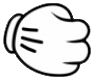
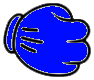
Added Better Images for rock,paper and scissior. Need to do the same for the cpu now.  Added Some Backup Pictures.

diff --git a/MainWindow.xaml b/MainWindow.xaml
@@ -15,7 +15,7 @@
       <Ellipse x:Name="Player1_circle" Fill="#FFFF0023" HorizontalAlignment="Left" Height="114.674" Margin="125.326,136.326,0,0" Stroke="Black" VerticalAlignment="Top" Width="114.674" RenderTransformOrigin="0.419,0.051" Stretch="Uniform"/>
       <Ellipse x:Name="CPU_Option" Fill="#FFF4F4F5" HorizontalAlignment="Left" Height="100" Margin="500,151,0,0" Stroke="Black" VerticalAlignment="Top" Width="100" RenderTransformOrigin="0.419,0.051" Visibility="Hidden"/>
 
-      <Image x:Name="Player1_Option_Chosen" Height="75.543" Margin="240,99.152,282,0" VerticalAlignment="Top" OpacityMask="#FF1700FF" d:LayoutOverrides="VerticalAlignment"/>
+      <Image x:Name="Player1_Option_Chosen" Height="75.543" Margin="147,159,0,0" VerticalAlignment="Top" OpacityMask="#FF1700FF" HorizontalAlignment="Left" Width="78"/>
       <Image x:Name="Player2_Option_Chosen" HorizontalAlignment="Left" Height="100" Margin="500,151,0,0" VerticalAlignment="Top" Width="100" OpacityMask="#FF0017FF"/>
       <Label Content="Player1" HorizontalContentAlignment="Center" VerticalContentAlignment="Center" HorizontalAlignment="Left" Height="36" Margin="140,256,0,0" VerticalAlignment="Top" Width="85" FontSize="20" RenderTransformOrigin="0.715,0.722"/>
       <Label Content="CPU" HorizontalContentAlignment="Center" VerticalContentAlignment="Center" HorizontalAlignment="Left" Height="36" Margin="507,256,0,0" VerticalAlignment="Top" Width="85" FontSize="20" RenderTransformOrigin="0.715,0.722"/>

diff --git a/MainWindow.xaml.cs b/MainWindow.xaml.cs
@@ -68,7 +68,9 @@ namespace Rock_paper_scissors
     private void RadioButton_Checked(object sender, RoutedEventArgs e) ///Rock Option
 
     {
-      Player1_Option_Chosen.Source = new BitmapImage(new Uri("Mickey Rockoldbad.jpg", UriKind.Relative)); //sets the image to rock.
+      //Player1_Option_Chosen.Source = new BitmapImage(new Uri("Mickey Rockoldbad.jpg", UriKind.Relative)); //sets the image to rock.
+      Player1_Option_Chosen.Source = new BitmapImage(new Uri("Mickey Rock2trans.png", UriKind.Relative)); // loads the paper image 
+
 
 
       SoundPlayer player = new SoundPlayer(); // creates a new sound player
@@ -99,7 +101,7 @@ namespace Rock_paper_scissors
 
     private void Scissior_Option_Checked(object sender, RoutedEventArgs e) // scissior option checked
     {
-      Player1_Option_Chosen.Source = new BitmapImage(new Uri("Scissors.jpg", UriKind.Relative)); //loads the scissors image.
+      Player1_Option_Chosen.Source = new BitmapImage(new Uri("Scissors2trans.png", UriKind.Relative)); //loads the scissors image.
 
       SoundPlayer player = new SoundPlayer(); // creates a new sound player
       player.Stream = Properties.Resources.Scissors; // plays the paper sound file. 
